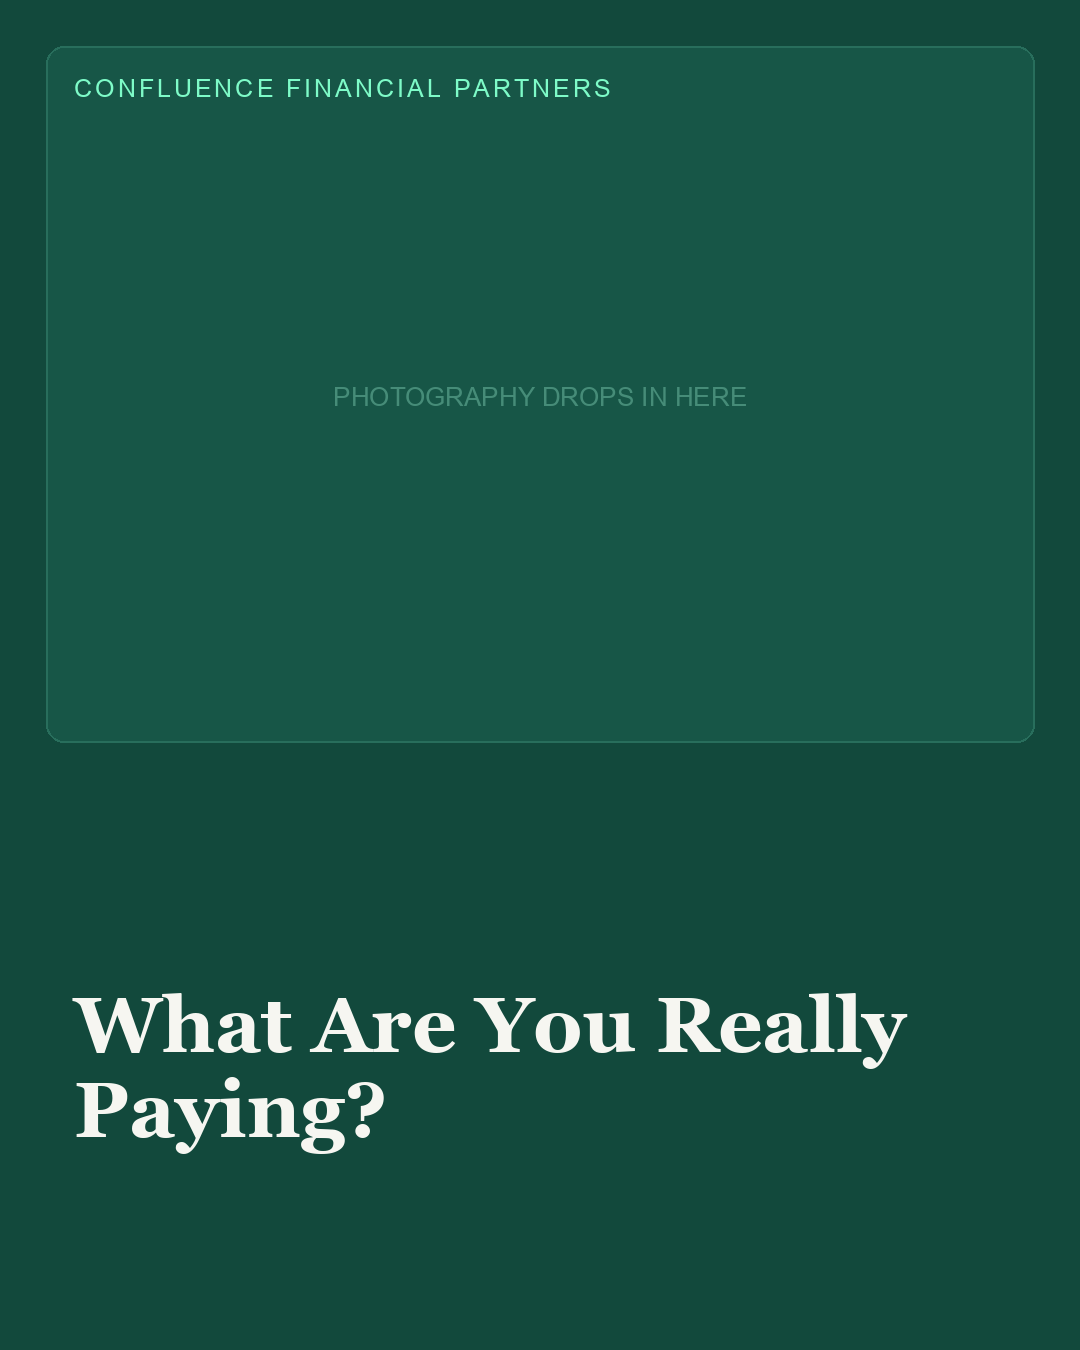
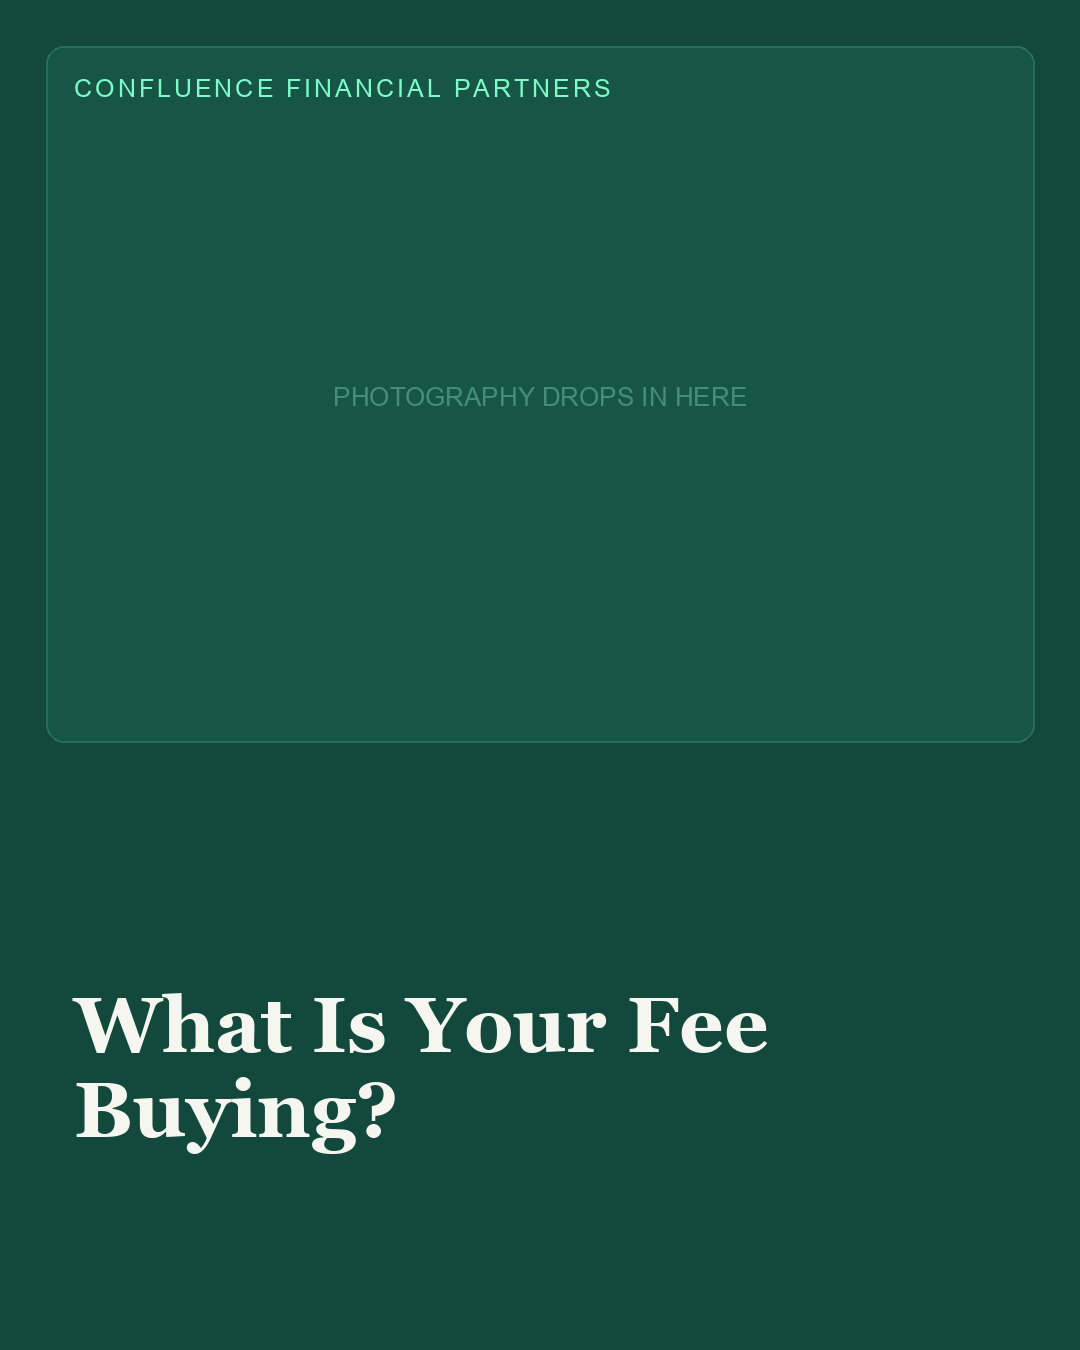
v2 consultation: Ad10 on-image + feed headline to value ('What Is Your Fee Buying?'); rebake + Figma synced

Changed region(s): [[0.0917, 0.7156, 0.8556, 0.8711]]

diff --git a/confluence-fp-consultation-v2/index.html b/confluence-fp-consultation-v2/index.html
@@ -1227,7 +1227,7 @@ let _activeImageVersion = {};
 let _placementIdx = {};
 let _feedbackCache = {};
 const CAMPAIGN_ID = 'confluence-fp-consultation-v2';
-const ASSET_V = 'v2-1786721352';  // cache-bust token, stamped at bake time
+const ASSET_V = 'v2-1786721490';  // cache-bust token, stamped at bake time
 
 // ── Utility ────────────────────────────────────────────────────────────────
 function esc(s) {
